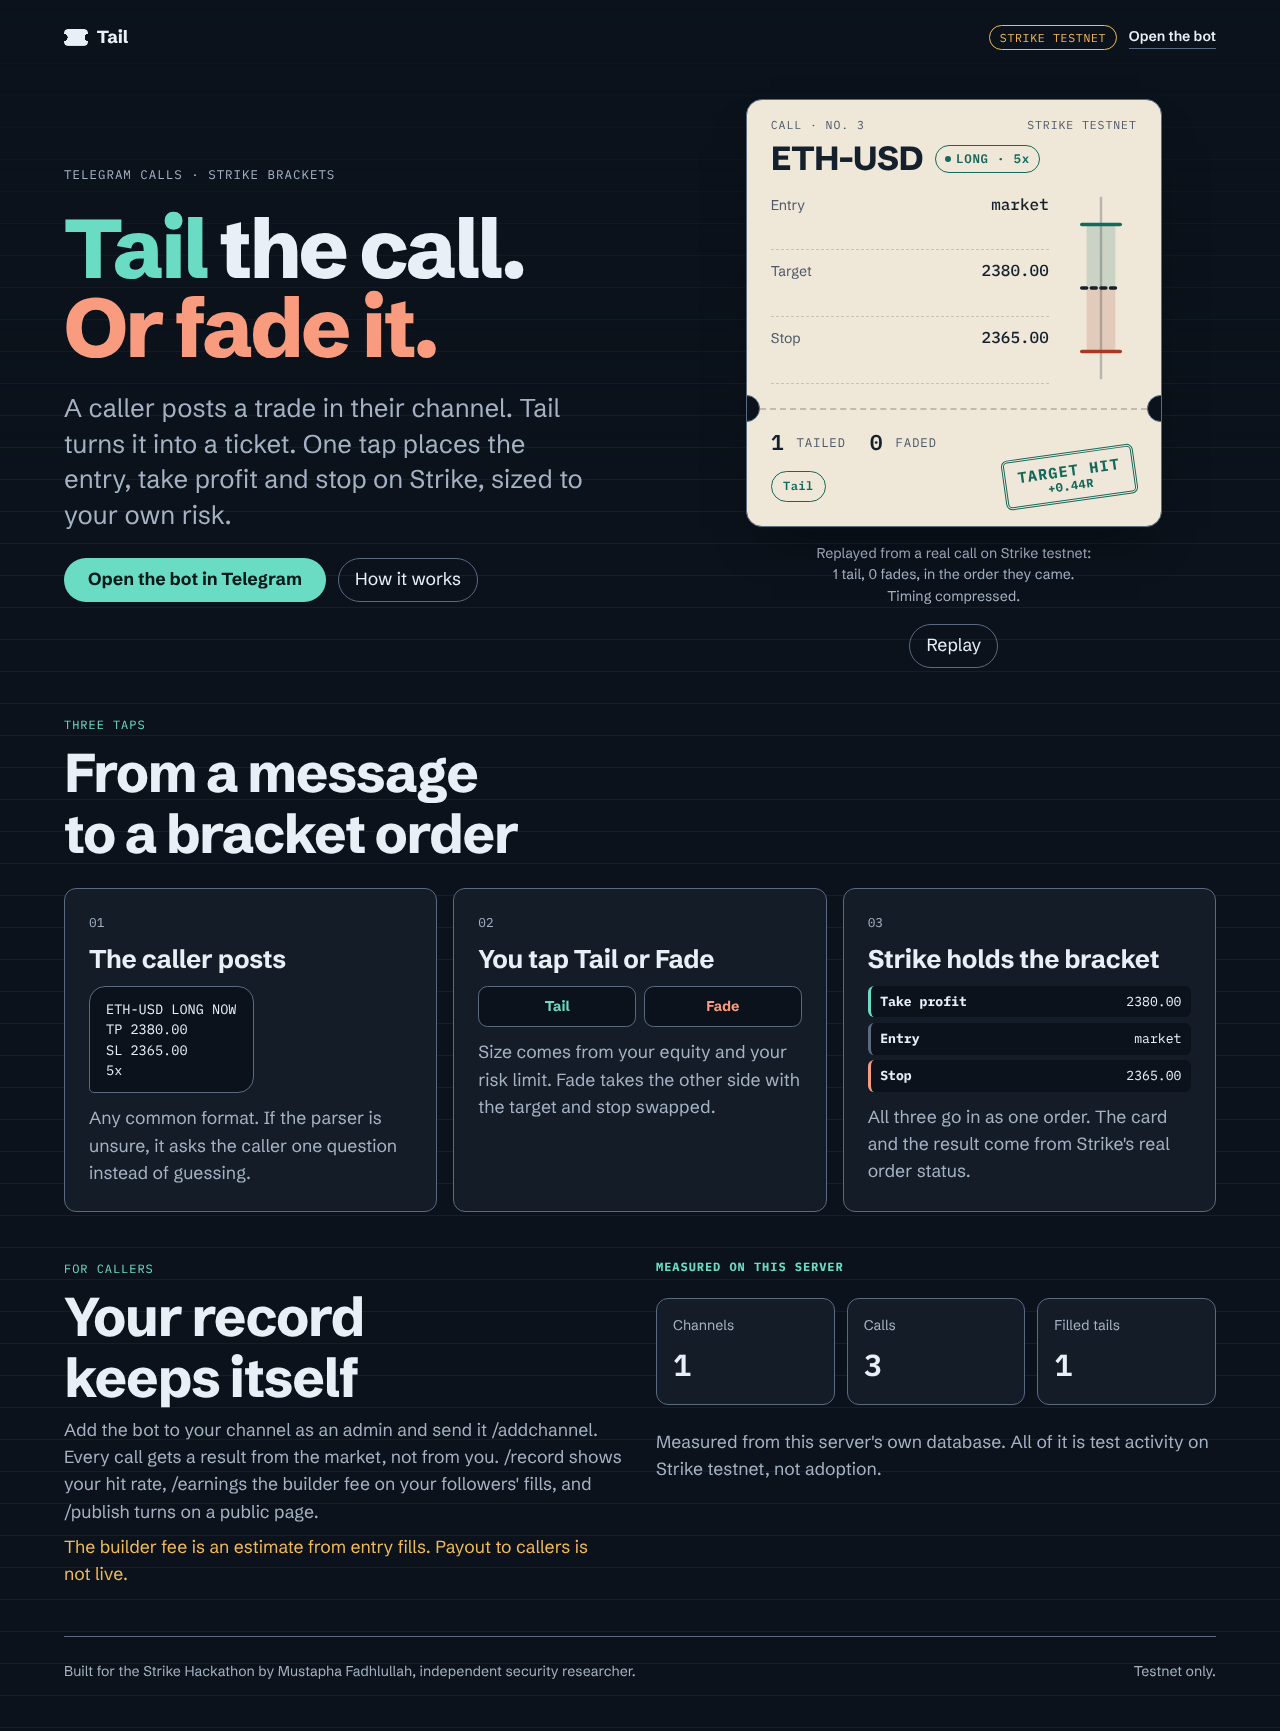
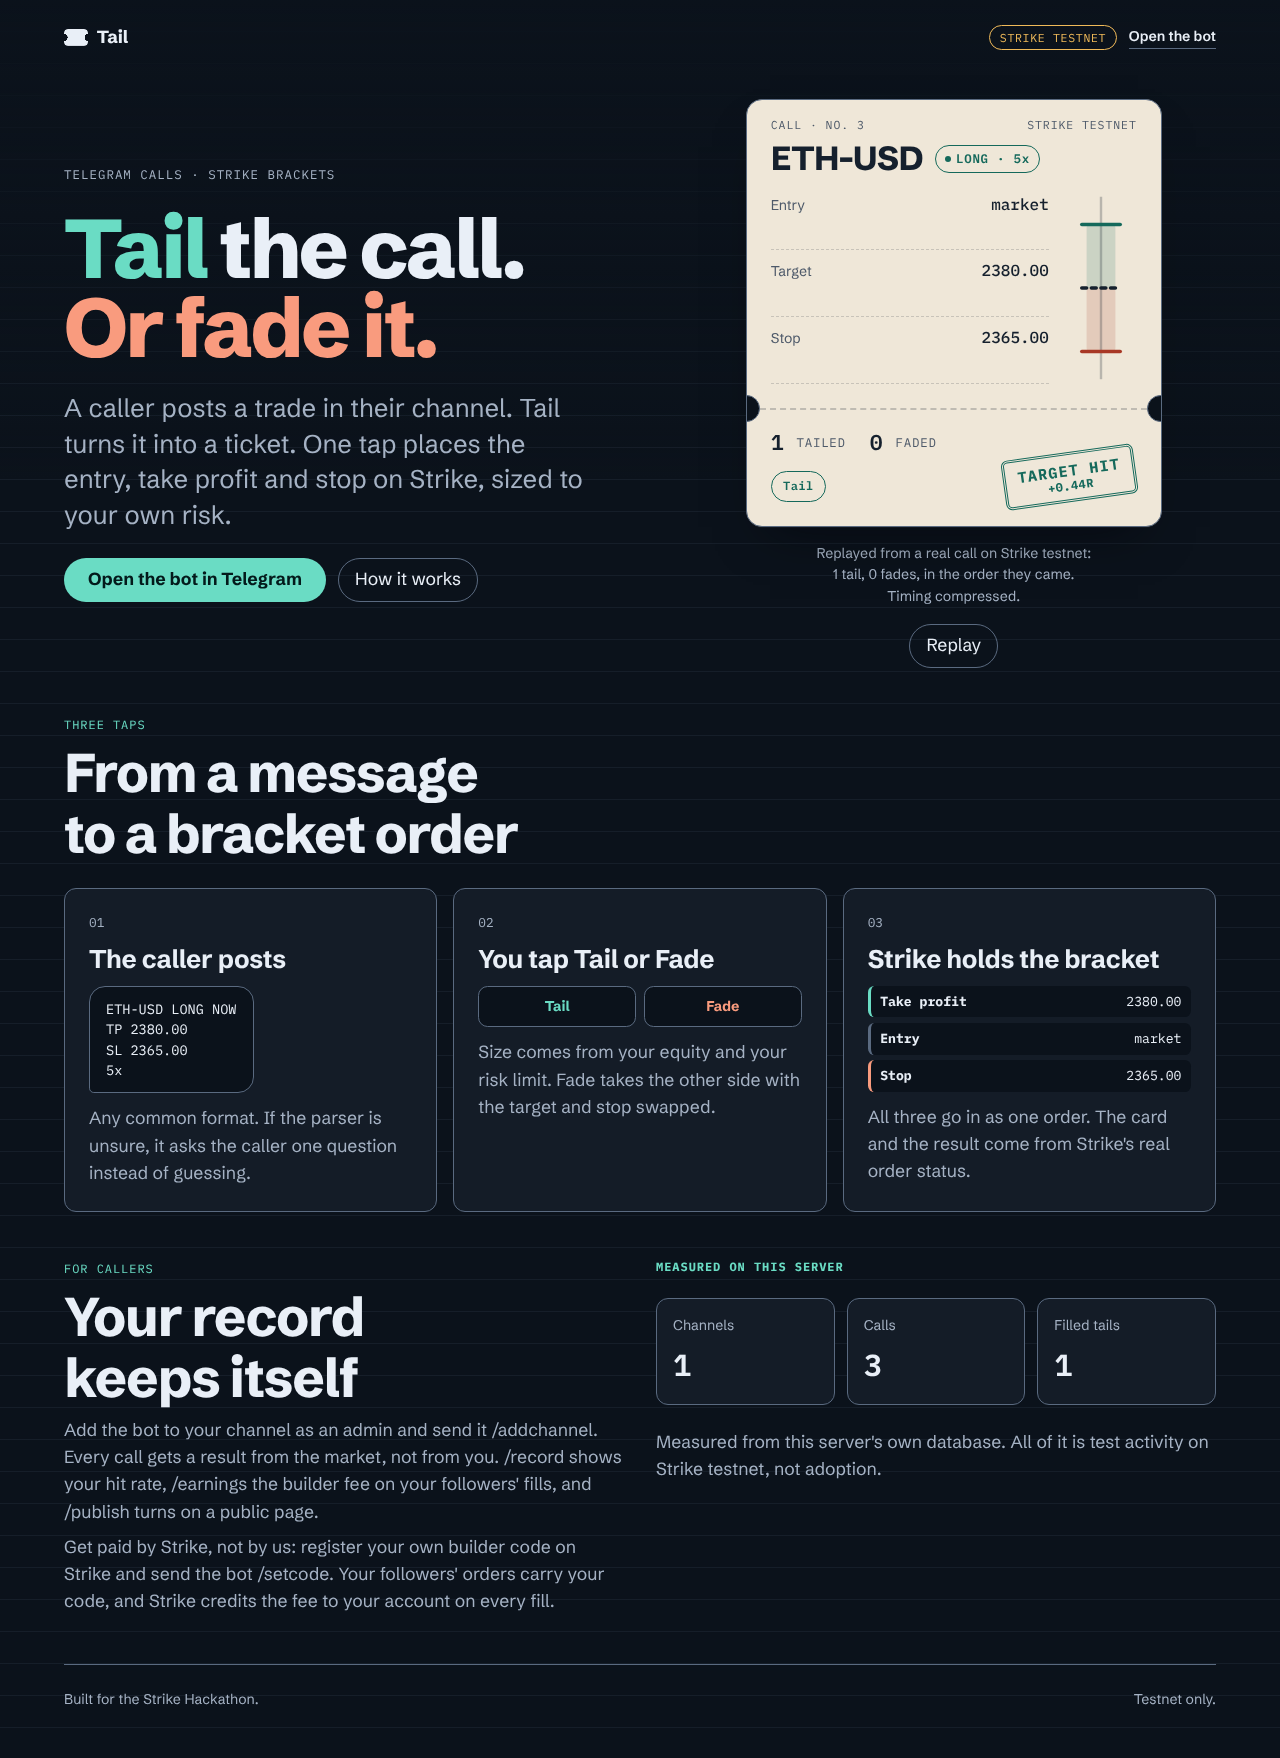
Pages say who Strike pays: the caller's own code, or Tail's when none is set
Replaces 'payout to callers is not live' everywhere it was shown, now that a
caller can set their own code. Page check updated to match the API.

Claude-Session: https://claude.ai/code/session_01BzRCuCvvaxwKdpQUCQScRc

diff --git a/web/src/pages/ChannelPage.tsx b/web/src/pages/ChannelPage.tsx
@@ -84,7 +84,12 @@ export function ChannelPage({ slug }: { slug: string }) {
                 : `${e.filled} filled ${e.filled === 1 ? "tail" : "tails"}, ${usdLabel(e.filledNotional)} of entry fills.`}
               {e.withoutRate > 0 && ` ${e.withoutRate} used a personal wallet and add nothing.`}
             </p>
-            <p className={`${styles.note} ${styles.warn}`}>Strike's fill record has no builder-share field, and exit fills are not counted. Payout to callers is not live.</p>
+            {page.payout.to === "caller" ? (
+              <p className={styles.note}>Paid by Strike straight to the account that owns the builder code <code>{page.payout.code}</code> ({page.payout.feeBps} bps). Tail never holds it.</p>
+            ) : (
+              <p className={`${styles.note} ${styles.warn}`}>This caller has not set their own builder code, so these fees go to Tail's code. With /setcode, Strike pays the caller directly.</p>
+            )}
+            <p className={styles.note}>Strike's fill record has no builder-share field, so this is an estimate, and exit fills are not counted.</p>
           </div>
         </div>
       </section>

diff --git a/src/web/pages.ts b/src/web/pages.ts
@@ -38,7 +38,8 @@ export interface ChannelPage {
   since: string;
   record: Summary;
   earnings: { basis: string; fee: string; filledNotional: string; filled: number; paying: number; withoutRate: number };
-  payout: "not live";
+  /** Who Strike credits the builder fee to: the caller's own code, or Tail's when the caller has not set one. */
+  payout: { to: "caller"; code: string; feeBps: number } | { to: "tail" };
   calls: PageCall[];
 }
 
@@ -112,7 +113,7 @@ export function createPages(store: Store, o: { botUsername?: string } = {}): Pag
         title: ch.title, kind: ch.kind, network: "testnet", since: ch.createdAt,
         record: summarize(rows, store.followersIn(ch.chatId)),
         earnings: { basis: e.basis, fee: e.fee, filledNotional: e.filledNotional, filled: e.filled, paying: e.paying, withoutRate: e.withoutRate },
-        payout: "not live", calls: list,
+        payout: ch.builderCode && ch.feeBps !== null ? { to: "caller", code: ch.builderCode, feeBps: ch.feeBps } : { to: "tail" }, calls: list,
       };
     },
     site() {

diff --git a/web/src/pages/HomePage.tsx b/web/src/pages/HomePage.tsx
@@ -113,7 +113,10 @@ export function HomePage() {
             Add the bot to your channel as an admin and send it /addchannel. Every call gets a result from the market, not from you.
             /record shows your hit rate, /earnings the builder fee on your followers' fills, and /publish turns on a public page.
           </p>
-          <p className={`${styles.note} ${styles.warn}`}>The builder fee is an estimate from entry fills. Payout to callers is not live.</p>
+          <p className={styles.note}>
+            Get paid by Strike, not by us: register your own builder code on Strike and send the bot /setcode. Your followers' orders carry
+            your code, and Strike credits the fee to your account on every fill.
+          </p>
         </div>
         <div className={styles.section} aria-labelledby="measured">
           <h3 id="measured" className={styles.kicker}>Measured on this server</h3>

diff --git a/scripts/pages-e2e.ts b/scripts/pages-e2e.ts
@@ -132,7 +132,8 @@ if (realSlug) {
   const t = await text(page);
   check("real page shows the call count from the API", t.includes(`${api.page.record.calls}`));
   check("real page says 'No tail has filled yet' when the fee is zero", api.page.earnings.filled === 0 ? t.includes("No tail has filled yet") : true, { filled: api.page.earnings.filled });
-  check("real page states that payout is not live", t.includes("Payout to callers is not live"));
+  const payout = (api.page as unknown as { payout: { to: string } }).payout;
+  check("real page says who Strike pays the fee to, matching the API", payout.to === "caller" ? t.includes("Paid by Strike straight to the account") : t.includes("these fees go to Tail's code"), payout);
   check("real page shows the heading with focus", (await page.evaluate("document.activeElement && document.activeElement.tagName")) === "H1");
   await ctx.close();
 }

diff --git a/test/pages.test.ts b/test/pages.test.ts
@@ -53,7 +53,9 @@ describe("channel page data", () => {
     expect(p.record).toMatchObject({ calls: 3, open: 1, tpHit: 1, slHit: 1, decided: 2, hitRatePct: "50.0", followers: 2 });
     expect(p.earnings).toMatchObject({ basis: expect.stringContaining("estimate"), filled: 3, paying: 3, withoutRate: 0 });
     expect(Number(p.earnings.fee)).toBeCloseTo(0.009 * 2480 * 10 / 10000 * 2 + 0.009 * 60000 * 10 / 10000, 6);
-    expect(p.payout).toBe("not live");
+    expect(p.payout).toEqual({ to: "tail" });
+    store.setChannelCode(-1001, { code: "alpha", feeBps: 25 });
+    expect(createPages(store).channel(slug)!.payout).toEqual({ to: "caller", code: "alpha", feeBps: 25 });
   });
 
   it("lists calls newest first with per-call result, followers and fee, and no private fields", () => {

diff --git a/src/core/earnings.ts b/src/core/earnings.ts
@@ -85,7 +85,7 @@ export function earnings(tails: EarningTail[]): Earnings {
   };
 }
 
-/** The caller-facing summary of one channel's earnings. Plain: what is counted, what is left out, and that payout is not live. */
+/** The caller-facing summary of one channel's earnings. Plain: what is counted, what is left out, and who Strike pays. */
 /** `payee` is the caller's own builder code when they set one: Strike then pays them, not Tail. */
 export function earningsText(title: string, e: Earnings, payee: string | null = null): string {
   const out = [`💰 <b>${title}</b>`];

diff --git a/web/src/lib/pages-api.ts b/web/src/lib/pages-api.ts
@@ -26,7 +26,7 @@ export interface ChannelPage {
   since: string;
   record: { calls: number; open: number; tpHit: number; slHit: number; expired: number; decided: number; hitRatePct: string | null; avgR: string | null; followers: number };
   earnings: { basis: string; fee: string; filledNotional: string; filled: number; paying: number; withoutRate: number };
-  payout: "not live";
+  payout: { to: "caller"; code: string; feeBps: number } | { to: "tail" };
   calls: PageCall[];
 }
 

diff --git a/README.md b/README.md
@@ -31,7 +31,7 @@ Each line says LIVE, NEXT or NOT LIVE. Nothing is marked LIVE until it has been 
 | Guard rails (rate limits, duplicate window, open-tail cap), ask flow, plain rejection reasons | LIVE | `npm test`. Reasons come from Strike strings seen live. Fade and a follower tap on the new build: NEXT (his taps) |
 | AI fallback for unreadable calls (OpenRouter, caller must confirm) | LIVE | Off without `OPENROUTER_API_KEY`. `docs/proof/p6-ai-live.json`. Numbers in a message are trusted by design; the caller's tap is the gate |
 | Caller earnings estimate (`/earnings`) and public record page (`/publish`, `/c/<slug>`), home page | LIVE (local) | Browser-tested at 8 widths in both themes on the real dev data; numbers equal the SQL in `CLAIMS.md`. Not deployed. The fee is an estimate: Strike's fill has no builder-share field |
-| Payout to callers | NOT LIVE | |
+| Caller payout: a caller sets their own Strike builder code (`/setcode`); follows from their card trade under it, so Strike credits the fee to them directly | NEXT | Built and tested; code check live (`sigma` ok, unknown 404). Not yet seen on a real fill under a caller code |
 
 ## How it works
 
